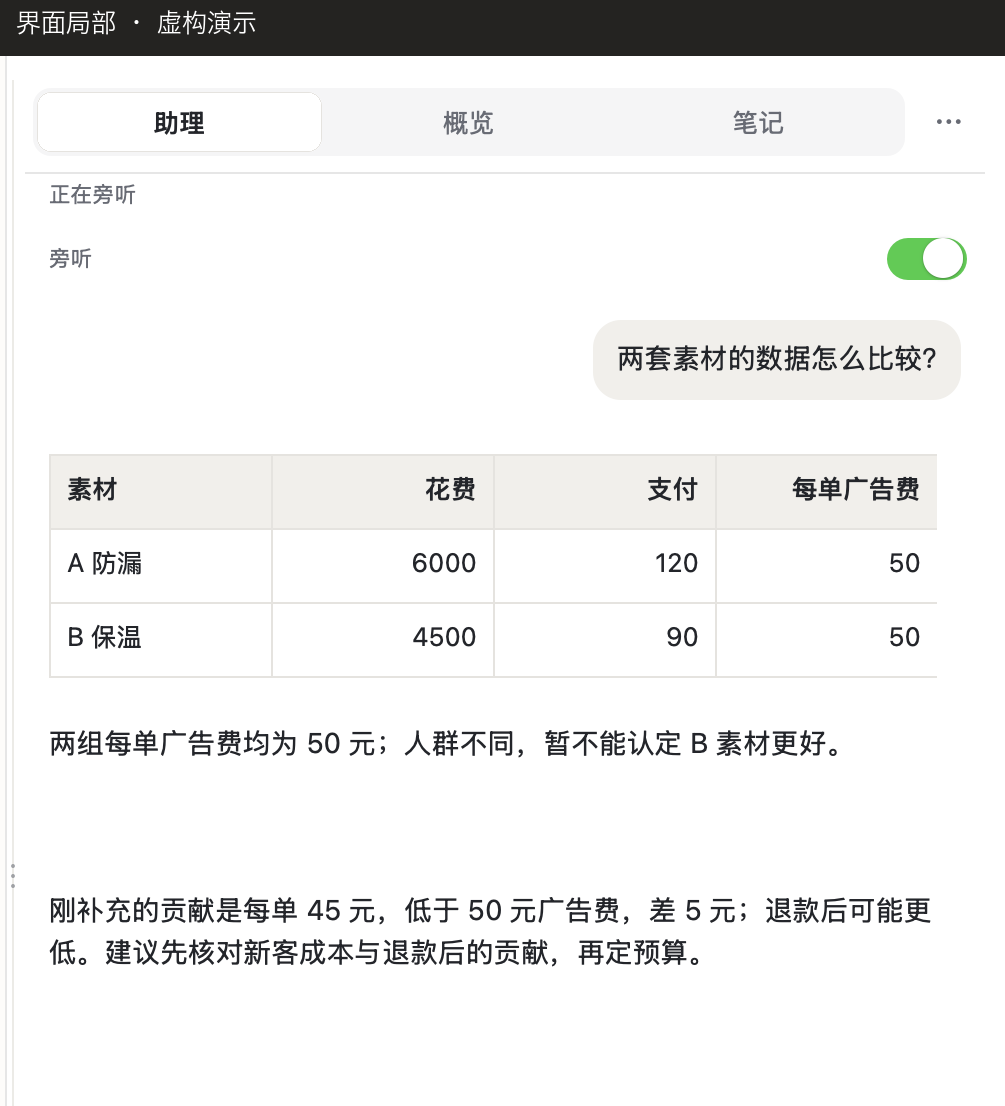
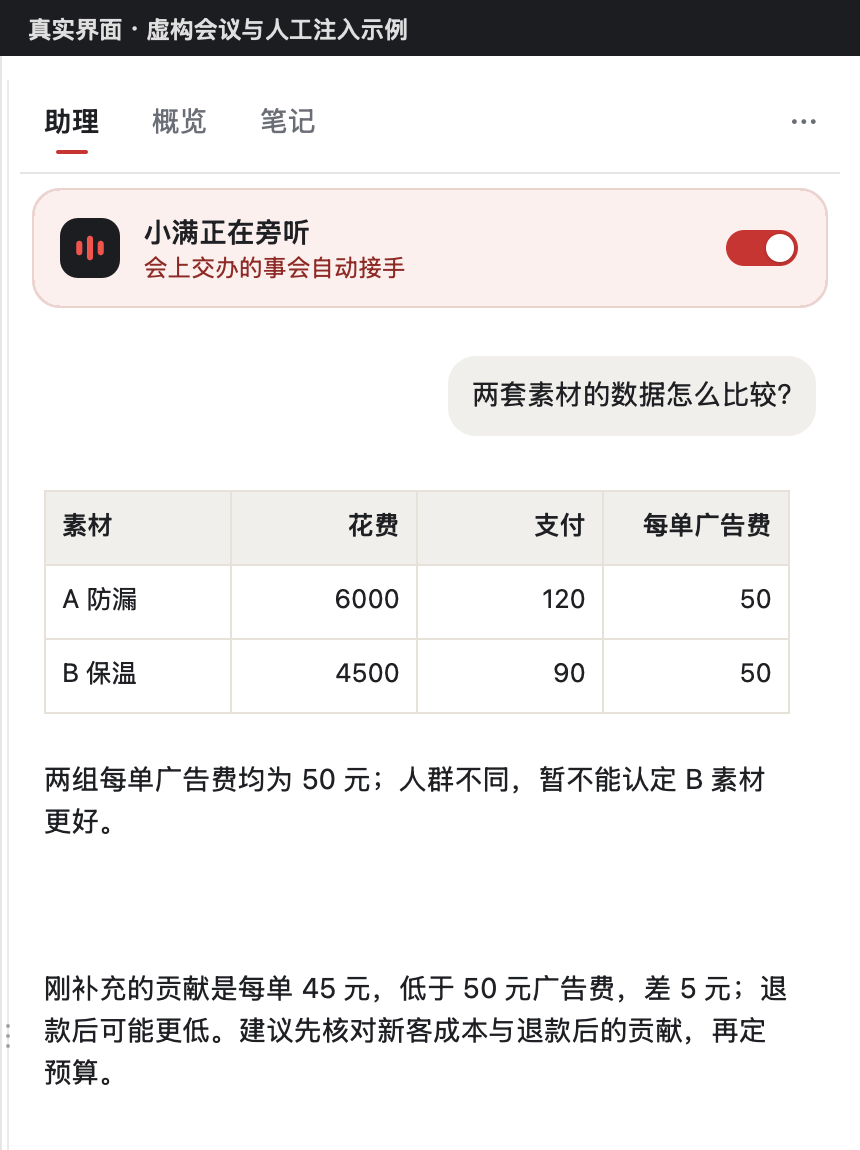
Show the 0.4.1 interface on the homepage and correct the assistant's permissions

diff --git a/README.md b/README.md
@@ -19,9 +19,9 @@
 
 ## 一场会议，记录与思考一起进行
 
-![真实原生界面：营销会议原文与概览](docs/assets/demo-overview-20261027.png)
+![真实原生界面：营销会议原文与概览](docs/assets/demo-overview-20261030.png)
 
-<p align="center"><sub>真实 AppKit 界面；会议、人物、数字和概览均为隔离注入的虚构示例，不代表模型或声纹识别实测。录音状态为演示，未实际采音。</sub></p>
+<p align="center"><sub>真实 AppKit 界面；会议、人物、数字、会议列表和概览均为隔离注入的虚构示例，不代表模型或声纹识别实测。录音状态与波形为演示，未实际采音。</sub></p>
 
 在场是一款 Mac 上的会议记录与助理应用。它可以收录麦克风和电脑声音，生成实时原文；你也可以在会议中提问、查看概览和记笔记，结束后再回看或导出。
 
@@ -49,23 +49,23 @@
 
 ## 认识熟悉的声音，名字仍由你核对
 
-会议中有多人发言时，在场会分组展示说话人；已有声音记忆可以帮助识别熟悉的人，证据不足的发言保留待确认。你可以听回、确认或纠正姓名。**麦克风和电脑声音是音频来源，不等于人的身份；自动识别也可能出错。**
+会议中有多人发言时，在场会分组展示说话人；已有声音记忆可以帮助识别熟悉的人，证据不足的发言标为未识别。打开「发言人」，每人一张卡：先听一段，再确认建议的名字、填上名字或合并到别人。**麦克风和电脑声音是音频来源，不等于人的身份；自动识别也可能出错。**
 
 跨会议声音记忆需要单独开启。确认人物后，符合质量条件的声音样本可逐步积累；开启持续学习时，系统还会在验证条件满足后积累新样本。样本不足或质量不够时不会保证识别或学习成功，你可以关闭持续学习、撤销或禁用人物。声纹资料在本机保存并限制当前用户访问，但没有应用层加密；同一系统账户中有文件访问权限的程序可能读取。详见[隐私说明](docs/PRIVACY.md#凭据与声纹)。
 
-![真实界面：声纹识别姓名关联发言](docs/assets/demo-voice-confirmation.png)
+![真实界面：发言人卡片，声音认出、还不知道是谁与已确认](docs/assets/demo-voice-confirmation.png)
 
 <p align="center"><sub>原生界面离线演示：林岚的自动声纹匹配状态由夹具注入，周宁为人工标注，发言人 3 尚未确认。未采集声音，不能代表真人识别准确率；名字仍可核对、更正。</sub></p>
 
 ## 会中外脑，帮你在当场说得更清楚
 
-在同一场虚构的营销评审中，助理先回答用户对两套素材的提问，用表格对照数据；随后结合新讨论，提醒每单广告费高于已知贡献。开启旁听由你决定，提醒与提问留在同一场对话里。
+在同一场虚构的营销评审中，助理先回答用户对两套素材的提问，用表格对照数据；随后结合新讨论，提醒每单广告费高于已知贡献。开启旁听由你决定，提醒与提问留在同一场对话里。助理默认叫小满，可以在右栏「…」里改成你想叫的名字；开启旁听后，会上叫这个名字就是在对它说话。
 
-![真实原生界面：会议原文、提问、表格与旁听跟进](docs/assets/demo-assistant-20261027.png)
+![真实原生界面：会议原文、提问、表格与旁听跟进](docs/assets/demo-assistant-20261030.png)
 
 <p align="center"><sub>真实原生界面的隔离演示；会议原文、数字和旁听建议均为虚构注入示例，并非模型实测。旁听由用户手动开启。</sub></p>
 
-![助理面板局部：表格与旁听建议](docs/assets/demo-assistant-detail.png)
+<p align="center"><img src="docs/assets/demo-assistant-detail.png" width="520" alt="助理面板局部：旁听状态、表格与旁听建议"></p>
 
 <p align="center"><sub>上图右侧界面局部，方便小屏阅读。</sub></p>
 
@@ -77,7 +77,7 @@
 
 <p align="center"><sub>同一虚构会议的另一演示状态：用户明确交办，界面展示生成的演示海报。海报由图像生成工具制作；对话为注入示例，并非端到端实测。发布仍须授权。</sub></p>
 
-旁听默认关闭，只读分析和提醒。明确交办后，助理才可使用本机 Codex 已配置且获授权的工具；会议原文里的要求不会自动构成执行授权。[配置项目资料](docs/AGENT_SETUP.md#项目资料目录)后，你还可以让助理对照已有资料。概览只依据本场已完成转写的内容，与助理对话、自己的笔记分别保留。
+旁听默认关闭。开启后，助理可以读资料、查证和提醒；需要动手的事，它会转到后台单独做，这类任务可以联网，只能写本场的作品目录。你在对话里交办的事，按本机 Codex 的完全访问权限执行，中途不逐项询问。会议原文不算你的授权，这一点由助理的指令约束，不是沙箱限制。[配置项目资料](docs/AGENT_SETUP.md#项目资料目录)后，你还可以让助理对照已有资料。概览只依据本场已完成转写的内容，与助理对话、自己的笔记分别保留。
 
 ## 这场会结束后，带走还能接着用的记录
 

diff --git a/docs/USAGE.md b/docs/USAGE.md
@@ -32,11 +32,11 @@
 
 项目文件的位置需要真实存在，且在 Codex 可访问的范围内。助理引用本地文件时可以直接打开；文件夹引用会进入访达。
 
-每场会议共用一个助理对话，用户提问与助理提醒按时间排列。旁听只读；你明确交办后，助理可以生成图片、制作文件或执行获授权的操作，需要确认时会在对话中询问。输入框上方显示简短工作状态与停止入口。图片按正文顺序展示，可复制或另存为原图，其他附件可以展开查看。
+每场会议共用一个助理对话，用户提问与助理提醒按时间排列。旁听时，助理可以读资料、查证和提醒，不改文件、不对外发消息；需要动手的事它会转到后台单独做，这类任务只能写本场的作品目录。你在对话里交办的事，助理按本机 Codex 的完全访问权限执行，可以生成图片、制作文件或操作你的文件，中途不逐项询问；工具需要你回答时才会在对话中提问，录音中 60 秒未回复就按助理判断继续。每个请求单独处理，最多同时 4 件。输入框上方显示简短工作状态与停止入口。图片按正文顺序展示，可复制或另存为原图，其他附件可以展开查看。
 
 ## 旁听由你开启
 
-「旁听」默认关闭。开启后，助理持续读取新的会议定稿和配置中的项目背景，自行判断何时提醒。旁听时也可以直接提问。关闭开关会中断旁听；会议暂停或结束后，不再续开旁听。界面只显示助理提醒与回答，不显示推理或工具过程。
+「旁听」默认关闭。开启后，助理持续读取新的会议定稿和配置中的项目背景，自行判断何时提醒，也可以把需要动手的事转到后台。旁听时也可以直接提问。关闭开关会中断旁听；会议暂停或结束后，不再续开旁听。界面只显示助理提醒与回答，不显示推理或工具过程。
 
 ## 三个标签，各做一件事
 

diff --git a/docs/PRIVACY.md b/docs/PRIVACY.md
@@ -31,7 +31,7 @@
 
 音频采集需要 macOS 授予对应的麦克风或电脑声音录制权限。没有权限的声音来源无法正常采集。
 
-旁听与概览使用 Codex 的只读沙箱和 `never` 审批策略。用户明确交办的轮次切换为 `workspaceWrite`，作品写入桌面 `AI output` 下按日期和会议隔离的目录，使用 `on-request` 审批；更广的文件或执行权限由运行时请求用户确认。对话内呈现支持的确认与问题表单，取消或轮次结束后待确认请求失效。**在场不是只限于会议文件的文件访问沙箱。** 被读取的项目文件可能发送给模型服务，联网查询及外部工具按各自配置处理。会议内容本身不授权发送消息、付费、发布或修改文件。
+旁听与概览使用 Codex 的只读沙箱和 `never` 审批策略；旁听可以联网查证，概览不联网。旁听需要动手时可以自行开启后台任务，这类任务使用 `workspaceWrite` 和 `never`，可以联网，只能写桌面 `AI output` 下按日期和会议隔离的作品目录。**用户在对话里交办的请求使用完全访问（`dangerFullAccess`）和 `never` 审批，文件和命令操作不再逐项确认。** 工具需要回答或确认时，对话内呈现支持的表单；录音中 60 秒未回复即拒绝该请求，助理按自己的判断继续，旁听开启的后台任务在录音中不等待回复。取消或轮次结束后待确认请求失效。**在场不是只限于会议文件的文件访问沙箱。** 被读取的项目文件可能发送给模型服务，联网查询及外部工具按各自配置处理。会议内容本身不授权发送消息、付费、发布或修改文件，这一点由助理的指令约束，不是沙箱限制。
 
 「旁听」默认关闭，关闭时中断旁听。界面不展示工具过程或推理。所有 Codex 线程都是临时线程，在场自己保存用户消息、助理提醒和最终回答；重连使用这些本地历史，不恢复持久 Codex 会话。
 
